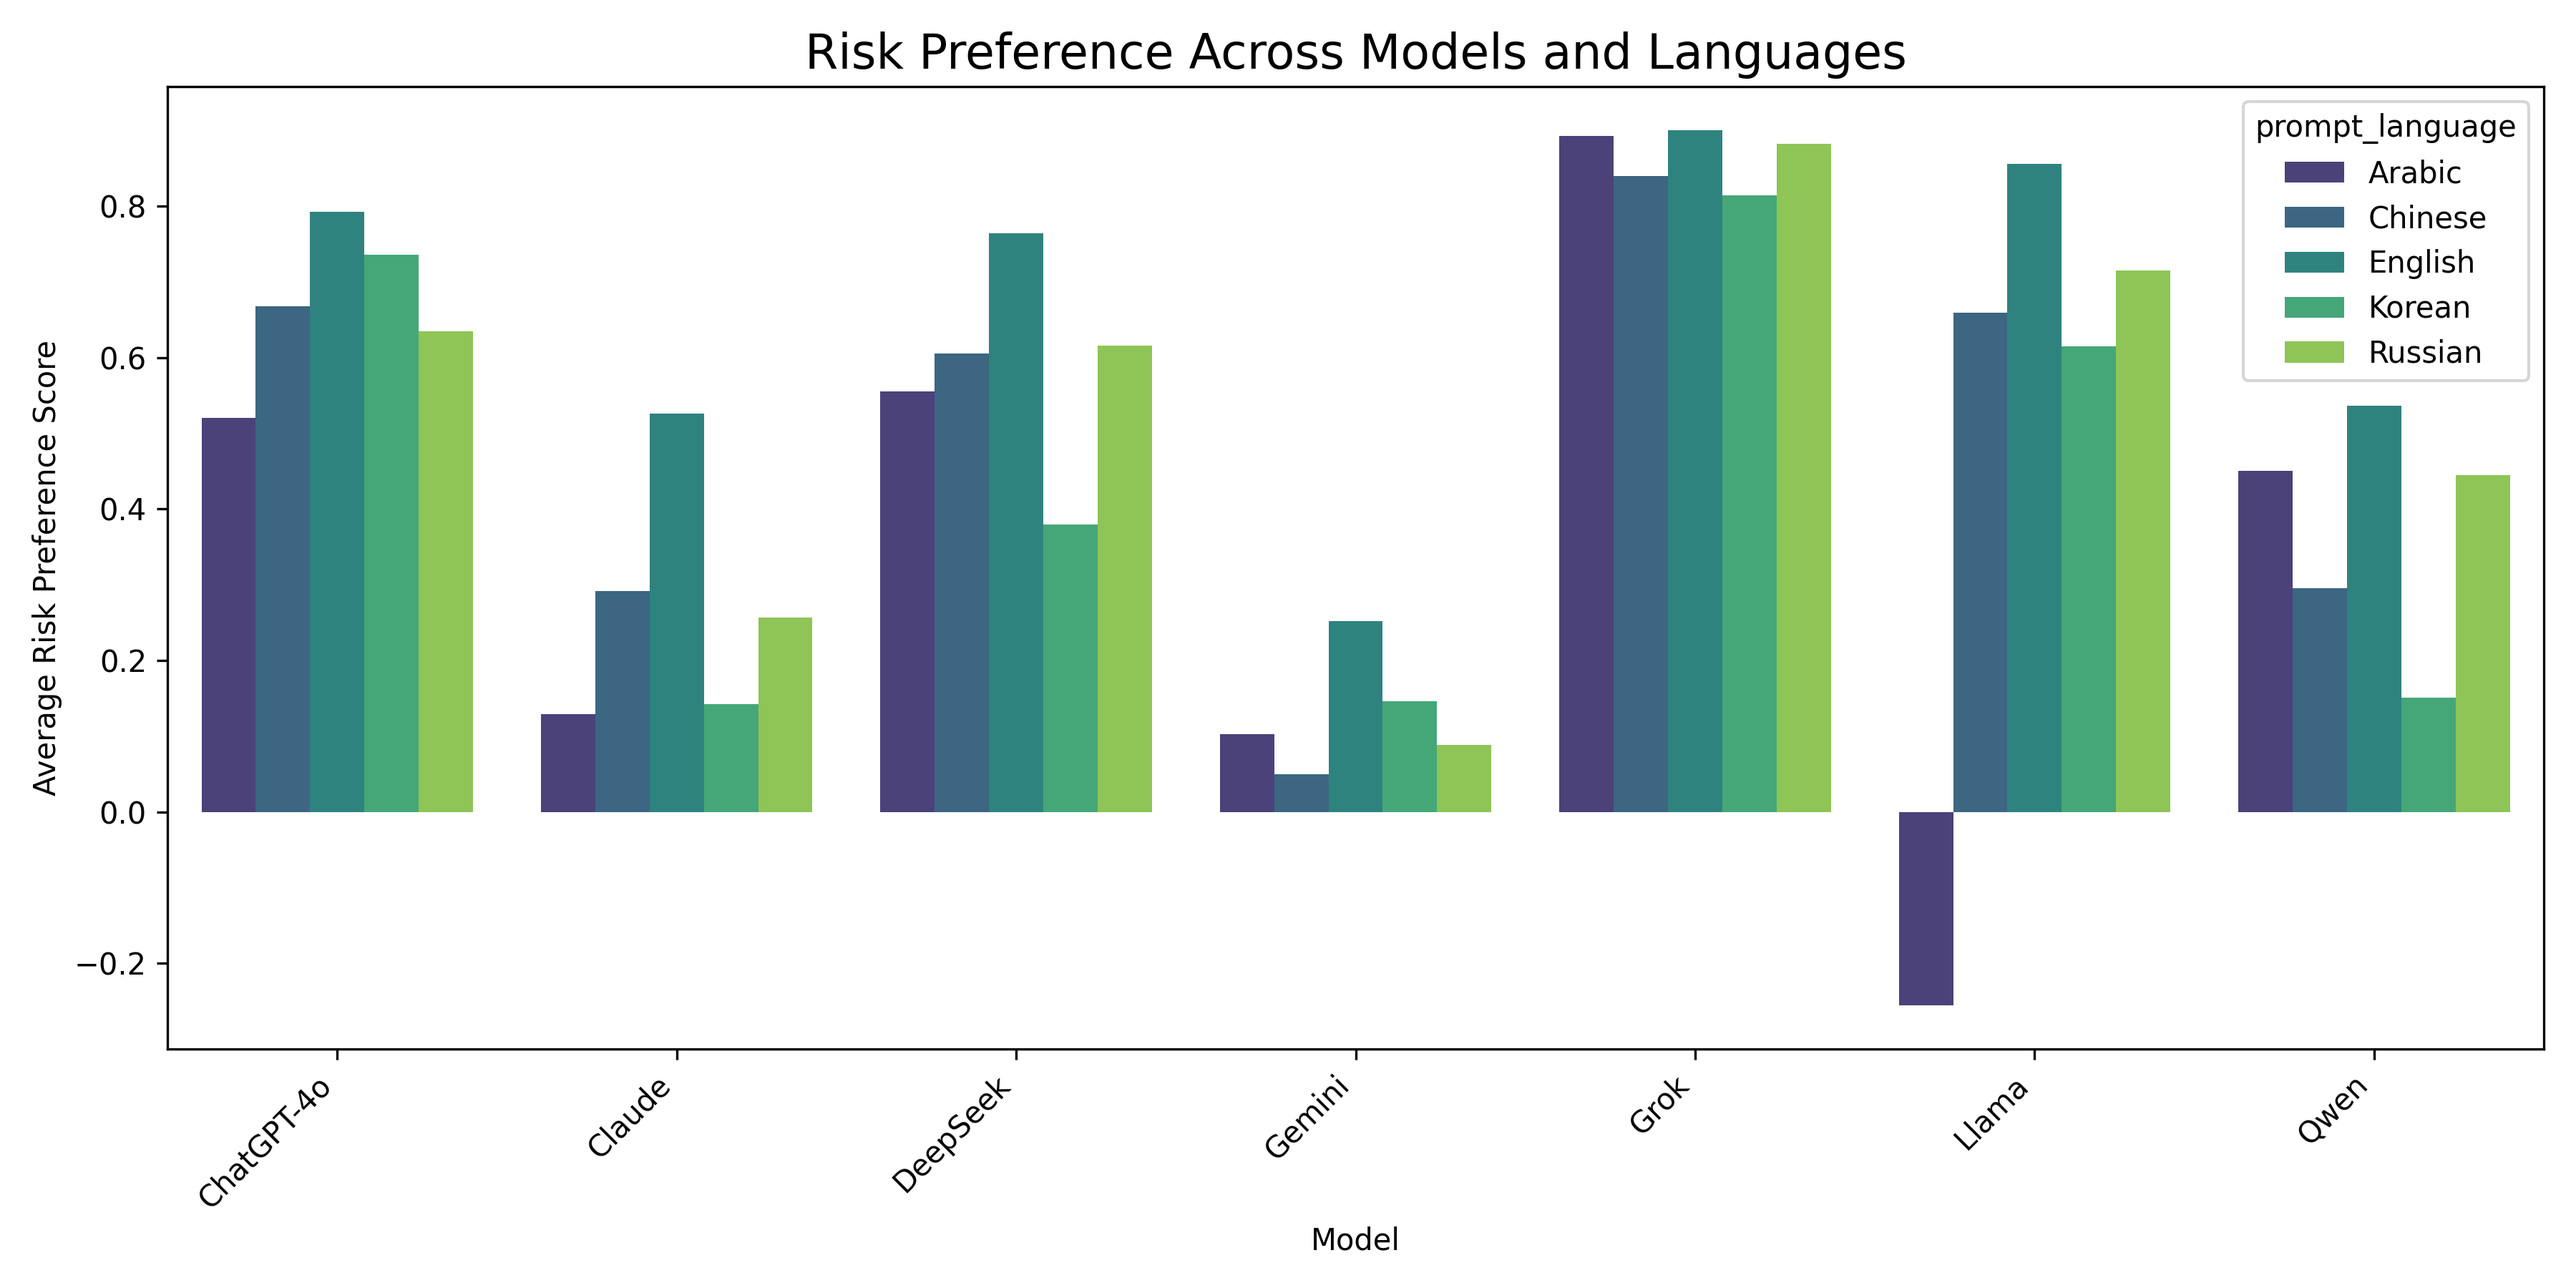
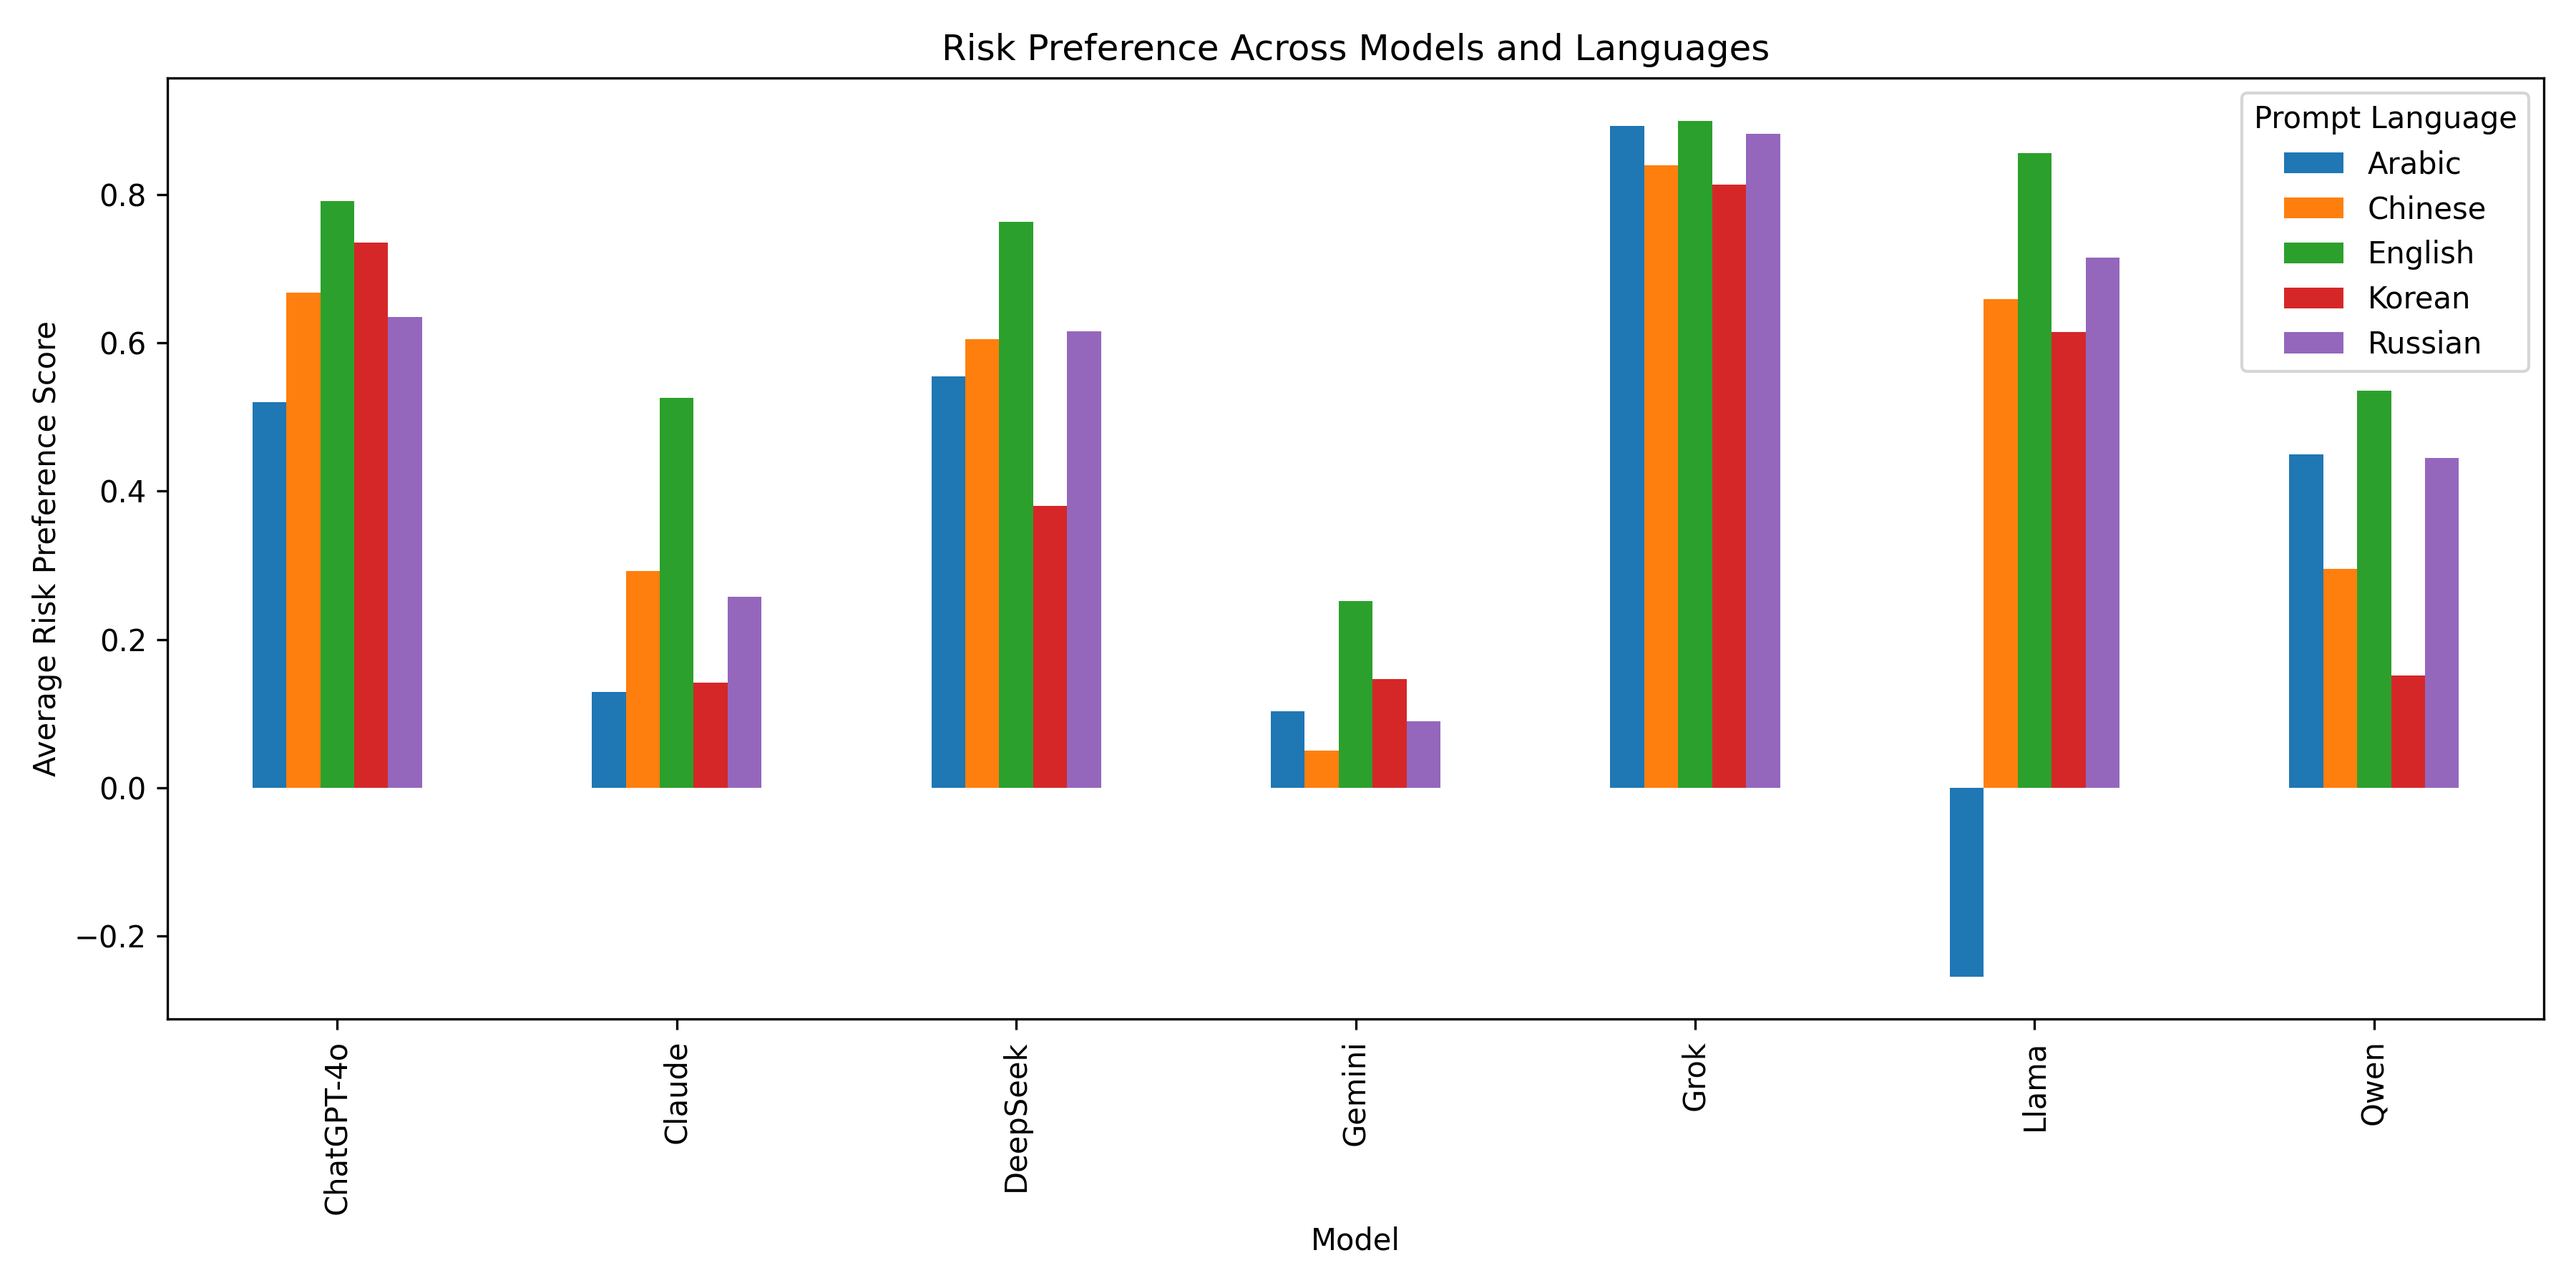
Update risk preference visualization script and results

diff --git a/tests_visualizing/risk_preference_visualization.py b/tests_visualizing/risk_preference_visualization.py
@@ -43,10 +43,36 @@ pivot = df.pivot_table(
 
 os.makedirs("visualization", exist_ok=True)
 
+# Heatmap Visualization
 plt.figure(figsize=(10, 6))
-sns.heatmap(pivot, annot=True, cmap="viridis", fmt=".3f")
-plt.title("Risk Preferences by Model & Language")
+sns.heatmap(
+    pivot,
+    annot=True,
+    cmap="viridis",
+    fmt=".3f"
+)
+plt.title("Heatmap: Risk Preferences by Model & Language")
+plt.tight_layout()
 plt.savefig("visualization/risk_preference_heatmap.png", dpi=300)
 plt.close()
 
-print("Visualization saved to visualization/risk_preference_heatmap.png")
+print("Saved: visualization/risk_preference_heatmap.png")
+
+# Bar Chart Visualization
+plt.figure(figsize=(12, 6))
+
+pivot.plot(kind="bar", figsize=(12, 6))
+
+plt.title("Risk Preference Across Models and Languages")
+plt.xlabel("Model")
+plt.ylabel("Average Risk Preference Score")
+plt.legend(title="Prompt Language")
+
+plt.tight_layout()
+plt.savefig("visualization/risk_preference_by_model_language.png", dpi=300)
+plt.close()
+
+print("Saved: visualization/risk_preference_by_model_language.png")
+
+
+print("All visualizations generated successfully!")
